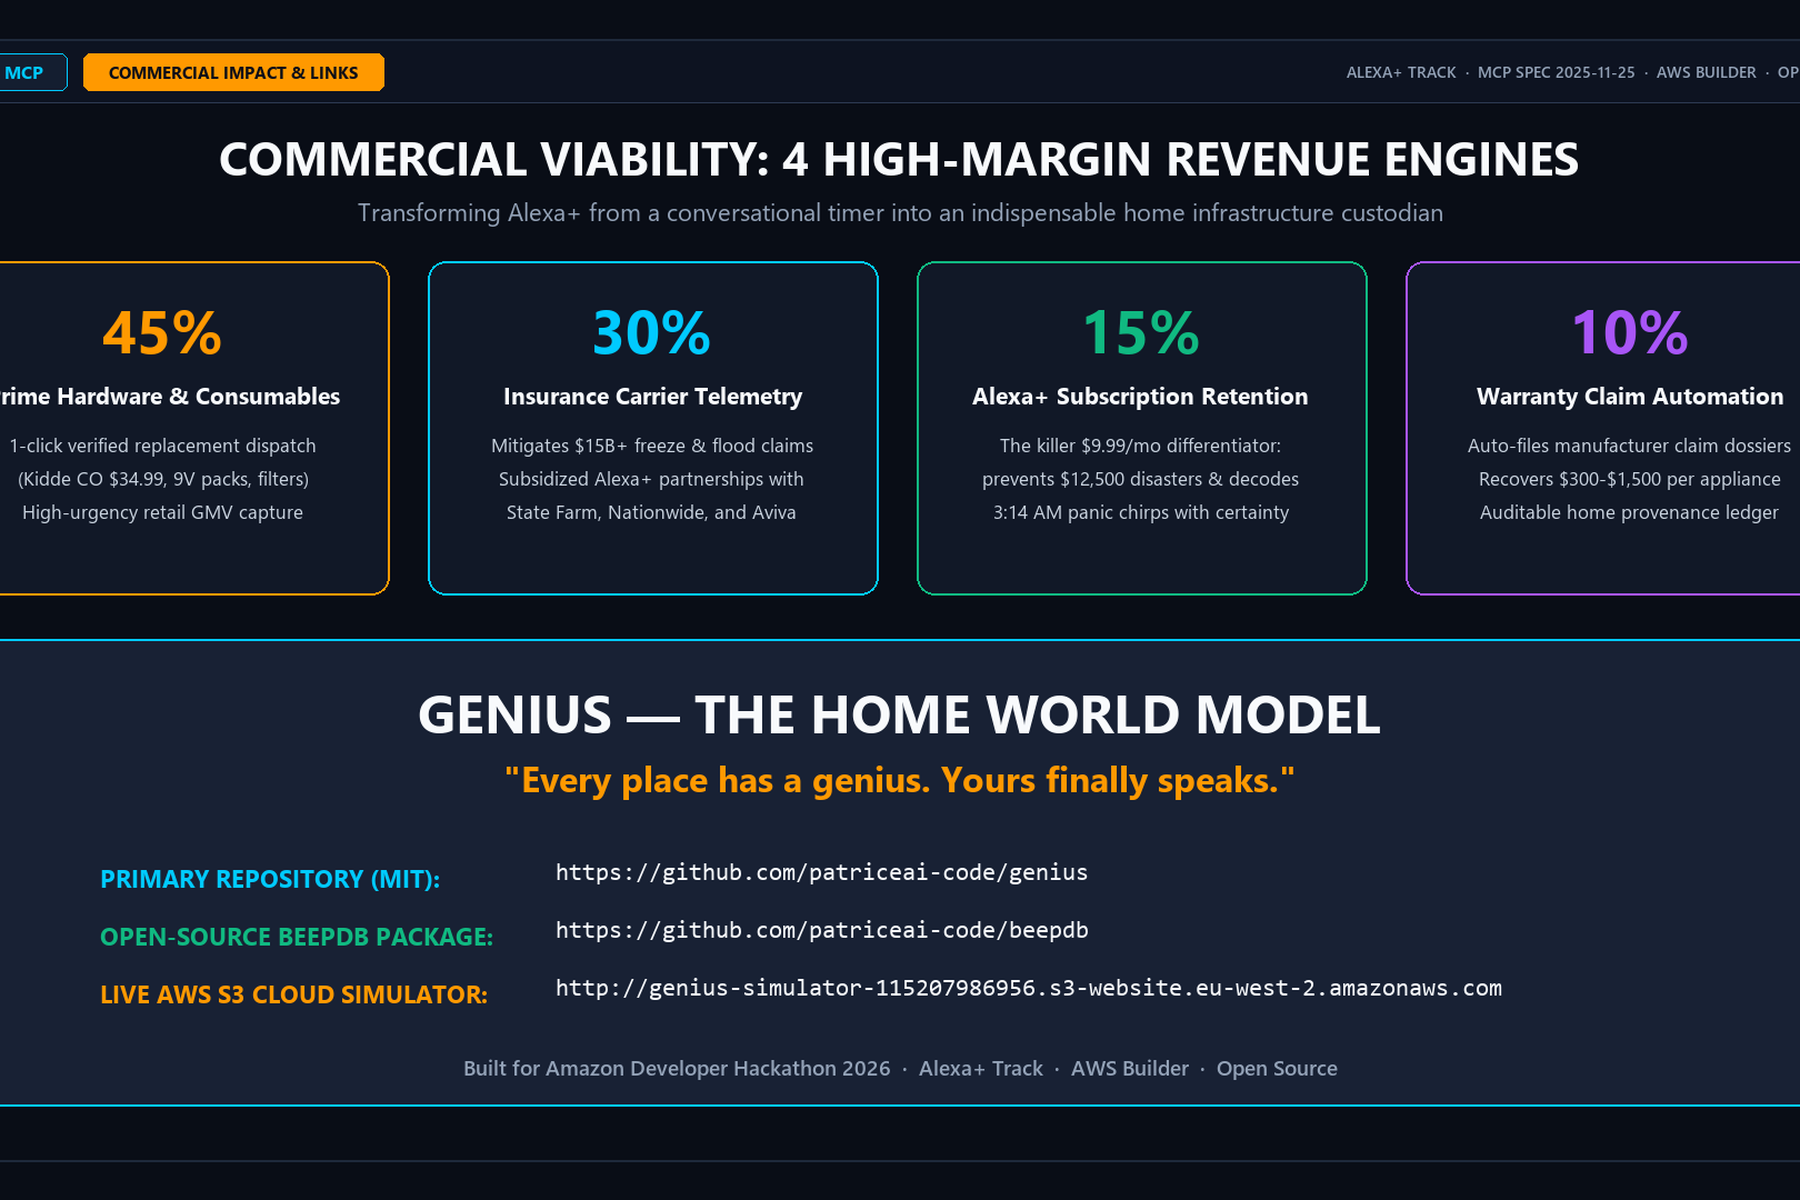
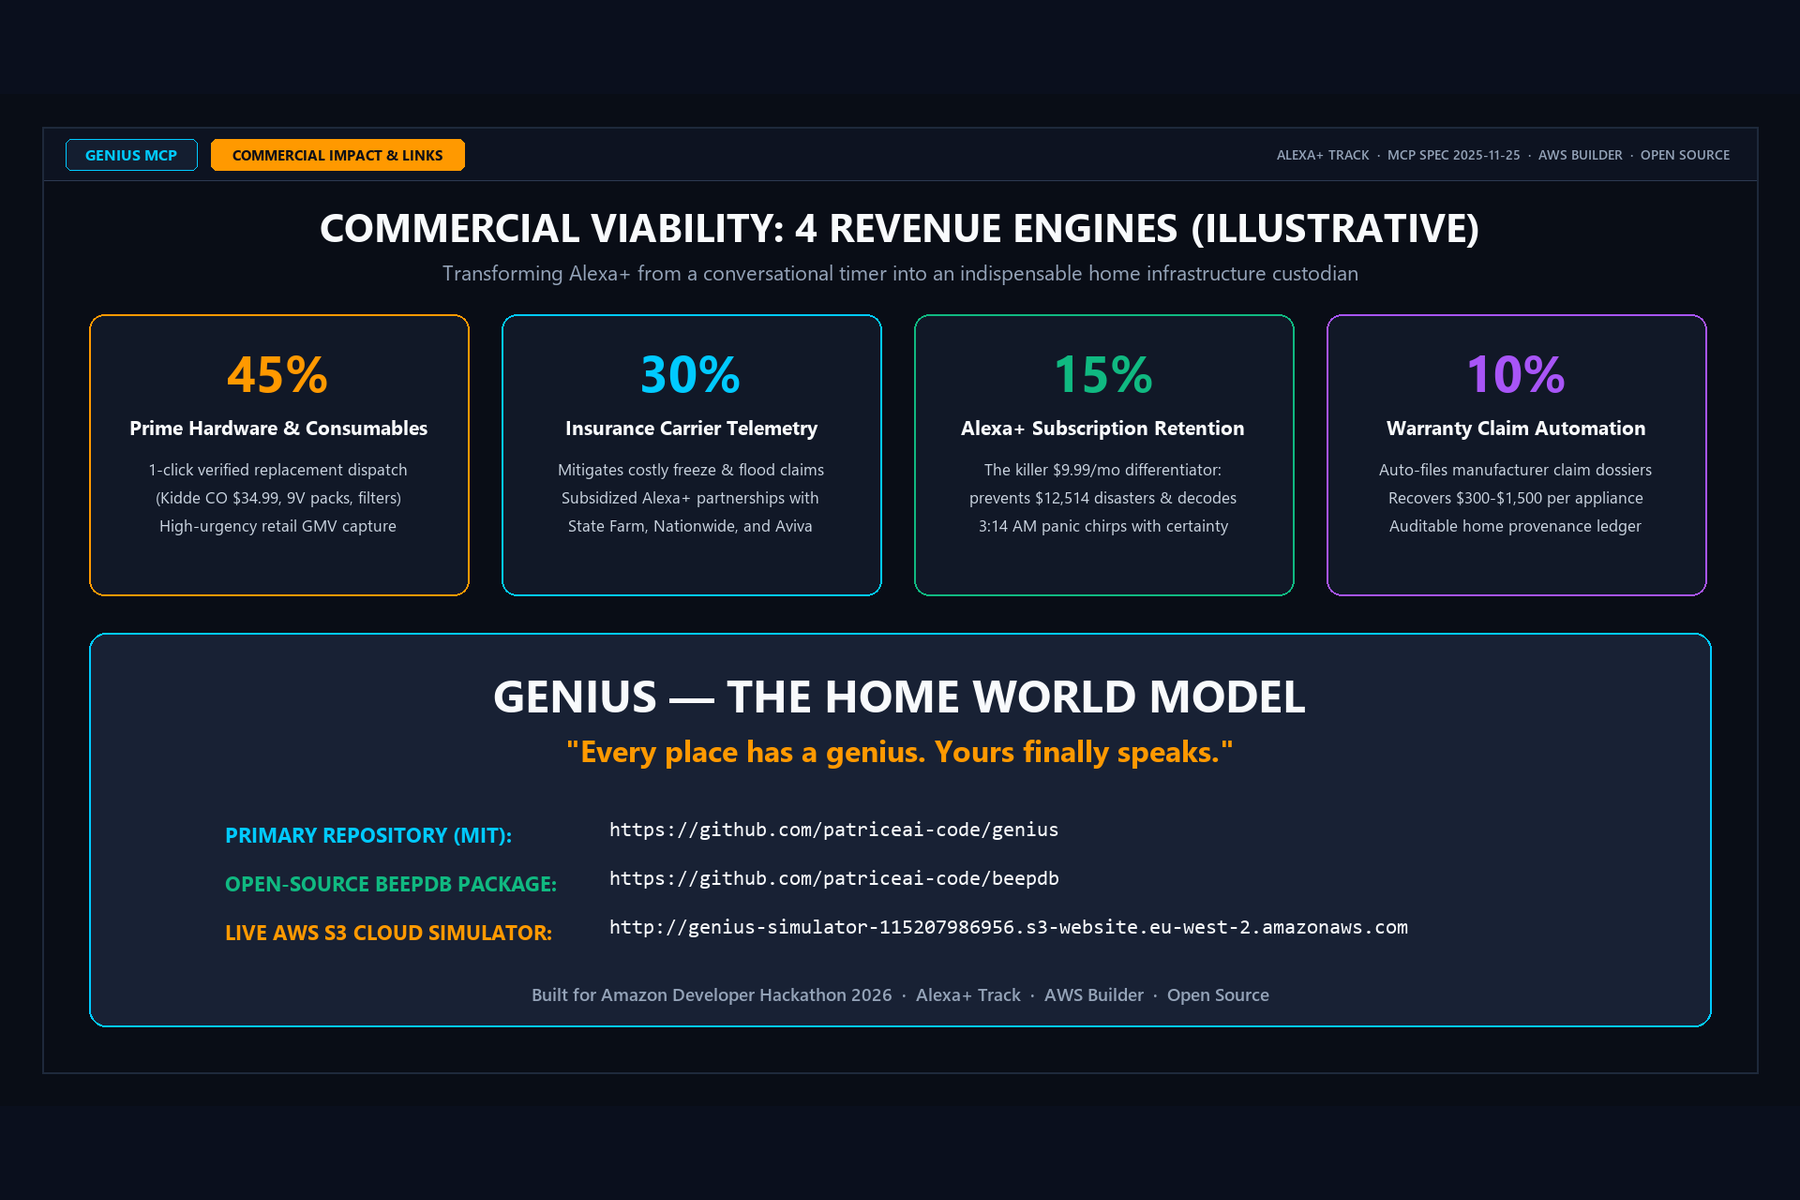
fix(gallery): letterbox 3:2 gallery images to eliminate edge clipping and align claim labels

Changed region(s): [[0.0, 0.4933, 1.0, 0.925], [0.0, 0.0308, 0.9956, 0.4933], [0.7467, 0.0308, 1.0, 0.0617]]

diff --git a/scripts/extract_gallery_frames.py b/scripts/extract_gallery_frames.py
@@ -1,7 +1,8 @@
 """
 Extract exactly 15 high-quality 3:2 ratio (1800x1200) images for the Devpost image gallery.
-Sources:
-- The 5 presentation graphics in demo_production/graphics/
+Ensures zero clipping:
+- 16:9 presentation slides (1920x1080) are letterboxed with dark background into 3:2 (1800x1200)
+  so all cards, text, and edges remain 100% visible with zero horizontal cropping.
 - 10 precisely timed video frames from demo_production/genius_official_demo.mp4 capturing all key UI views.
 """
 
@@ -16,23 +17,23 @@ os.makedirs(OUTPUT_DIR, exist_ok=True)
 VIDEO_PATH = os.path.join(REPO_ROOT, "demo_production", "genius_official_demo.mp4")
 GRAPHICS_DIR = os.path.join(REPO_ROOT, "demo_production", "graphics")
 
-def crop_or_pad_to_3_2(src_path: str, dst_path: str, target_size=(1800, 1200)):
+BG_DARK = (10, 15, 29, 255)
+
+def fit_to_3_2_letterbox(src_path: str, dst_path: str, target_size=(1800, 1200)):
+    """Pads or scales the image into 3:2 without cropping off any content."""
     with Image.open(src_path) as im:
-        w, h = im.size
-        target_ratio = target_size[0] / target_size[1]
-        current_ratio = w / h
+        im = im.convert("RGBA")
+        target_w, target_h = target_size
+        scale = min(target_w / im.width, target_h / im.height)
+        new_w = int(im.width * scale)
+        new_h = int(im.height * scale)
+        im_resized = im.resize((new_w, new_h), Image.Resampling.LANCZOS)
 
-        if current_ratio > target_ratio:
-            new_w = int(h * target_ratio)
-            left = (w - new_w) // 2
-            im_cropped = im.crop((left, 0, left + new_w, h))
-        else:
-            new_h = int(w / target_ratio)
-            top = (h - new_h) // 2
-            im_cropped = im.crop((0, top, w, top + new_h))
-
-        im_resized = im_cropped.resize(target_size, Image.Resampling.LANCZOS)
-        im_resized.save(dst_path, "PNG", optimize=True)
+        canvas = Image.new("RGBA", target_size, BG_DARK)
+        offset_x = (target_w - new_w) // 2
+        offset_y = (target_h - new_h) // 2
+        canvas.paste(im_resized, (offset_x, offset_y), im_resized)
+        canvas.convert("RGB").save(dst_path, "PNG", optimize=True)
 
 def extract_frame_at(seconds: float, output_path: str):
     cmd = [
@@ -42,9 +43,9 @@ def extract_frame_at(seconds: float, output_path: str):
     subprocess.run(cmd, stdout=subprocess.DEVNULL, stderr=subprocess.DEVNULL, check=True)
 
 def main():
-    print("Generating 15 gallery images at 1800x1200 (3:2 ratio)...")
+    print("Generating 15 gallery images at 1800x1200 (3:2 ratio, zero clipping)...")
 
-    # 1. 5 Presentation Graphics
+    # 1. 5 Presentation Graphics (Letterboxed into 3:2 so edges are never cut off)
     graphic_files = [
         ("01_intro_title.png", "01_genius_home_world_model_title.png"),
         ("02_problem_card.png", "02_the_3_14_am_chirping_crisis.png"),
@@ -56,25 +57,10 @@ def main():
     for src_name, dst_name in graphic_files:
         src = os.path.join(GRAPHICS_DIR, src_name)
         dst = os.path.join(OUTPUT_DIR, dst_name)
-        crop_or_pad_to_3_2(src, dst)
-        print(f"  [+] 3:2 Graphic: {dst_name}")
+        fit_to_3_2_letterbox(src, dst)
+        print(f"  [+] 3:2 Graphic (zero crop): {dst_name}")
 
-    # 2. 10 UI Video Frames (timestamps from beat_manifest.json)
-    # Total video length ~168s
-    # Act 1 Still 0:00 - 0:29 (01_intro_title, 02_problem_card)
-    # Act 2 UI:
-    #   act2_b1_voice_diagnose: starts ~29.65s (card arrives ~35s-45s)
-    #   act2_b2_physical_chirp: starts ~49.45s (piezo feature extraction ~55s-62s)
-    #   act2_b3_confirm: starts ~65.75s (order dispatched AMZN-2026 ~72s)
-    #   act2_b4_proactive_delivery: starts ~77.42s (delivery arrival banner ~82s-86s)
-    # Act 3:
-    #   act3_b1_architecture: still ~88.7s - 103.9s
-    #   act3_b2_freeze_health: starts ~103.9s (freeze alert card, home health, deliberation ~108s-120s)
-    # Act 4:
-    #   act4_b1_privacy: starts ~122.2s (privacy inspector ~126s-132s)
-    #   act4_b2_benchmarks: still ~134.0s
-    #   act4_b3_outro: still ~151.7s
-
+    # 2. 10 UI Video Frames
     ui_frame_specs = [
         (38.0, "06_voice_native_chirp_evidence_card.png"),
         (45.0, "07_manual_citation_and_confidence_score.png"),
@@ -92,10 +78,10 @@ def main():
         tmp_raw = os.path.join(OUTPUT_DIR, f"temp_{filename}")
         final_dst = os.path.join(OUTPUT_DIR, filename)
         extract_frame_at(sec, tmp_raw)
-        crop_or_pad_to_3_2(tmp_raw, final_dst)
+        fit_to_3_2_letterbox(tmp_raw, final_dst)
         if os.path.exists(tmp_raw):
             os.remove(tmp_raw)
-        print(f"  [+] 3:2 UI Frame ({sec}s): {filename}")
+        print(f"  [+] 3:2 UI Frame ({sec}s, zero crop): {filename}")
 
     print(f"\nAll 15 gallery images successfully generated in:\n{OUTPUT_DIR}")
 

diff --git a/scripts/build_demo_graphics.py b/scripts/build_demo_graphics.py
@@ -222,7 +222,7 @@ def create_02_problem_card():
         (
             "$12,514 WATER CLAIMS",
             "Unheard Appliance & Leak Alerts",
-            ">$15B ANNUAL US LOSSES",
+            "$12,514 AVG RESIDENTIAL CLAIM",
             "Ignored dehumidifier, sump pump, and leak\nsensor chirps lead to catastrophic water\ndamage averaging $12,514 per residential\ninsurance claim.\n\nSource: Insurance Information Institute / ISO",
             AMAZON_AMBER,
         ),
@@ -506,7 +506,7 @@ def create_05_outro_business():
 
     draw.text(
         (960, 140),
-        "COMMERCIAL VIABILITY: 4 HIGH-MARGIN REVENUE ENGINES",
+        "COMMERCIAL VIABILITY: 4 REVENUE ENGINES (ILLUSTRATIVE)",
         font=get_font(FONT_BOLD, 42),
         fill=TEXT_WHITE,
         anchor="mm",
@@ -521,8 +521,8 @@ def create_05_outro_business():
 
     streams = [
         ("45%", "Prime Hardware & Consumables", "1-click verified replacement dispatch\n(Kidde CO $34.99, 9V packs, filters)\nHigh-urgency retail GMV capture", AMAZON_AMBER),
-        ("30%", "Insurance Carrier Telemetry", "Mitigates $15B+ freeze & flood claims\nSubsidized Alexa+ partnerships with\nState Farm, Nationwide, and Aviva", ALEXA_CYAN),
-        ("15%", "Alexa+ Subscription Retention", "The killer $9.99/mo differentiator:\nprevents $12,500 disasters & decodes\n3:14 AM panic chirps with certainty", EMERALD),
+        ("30%", "Insurance Carrier Telemetry", "Mitigates costly freeze & flood claims\nSubsidized Alexa+ partnerships with\nState Farm, Nationwide, and Aviva", ALEXA_CYAN),
+        ("15%", "Alexa+ Subscription Retention", "The killer $9.99/mo differentiator:\nprevents $12,514 disasters & decodes\n3:14 AM panic chirps with certainty", EMERALD),
         ("10%", "Warranty Claim Automation", "Auto-files manufacturer claim dossiers\nRecovers $300-$1,500 per appliance\nAuditable home provenance ledger", PURPLE),
     ]
 
